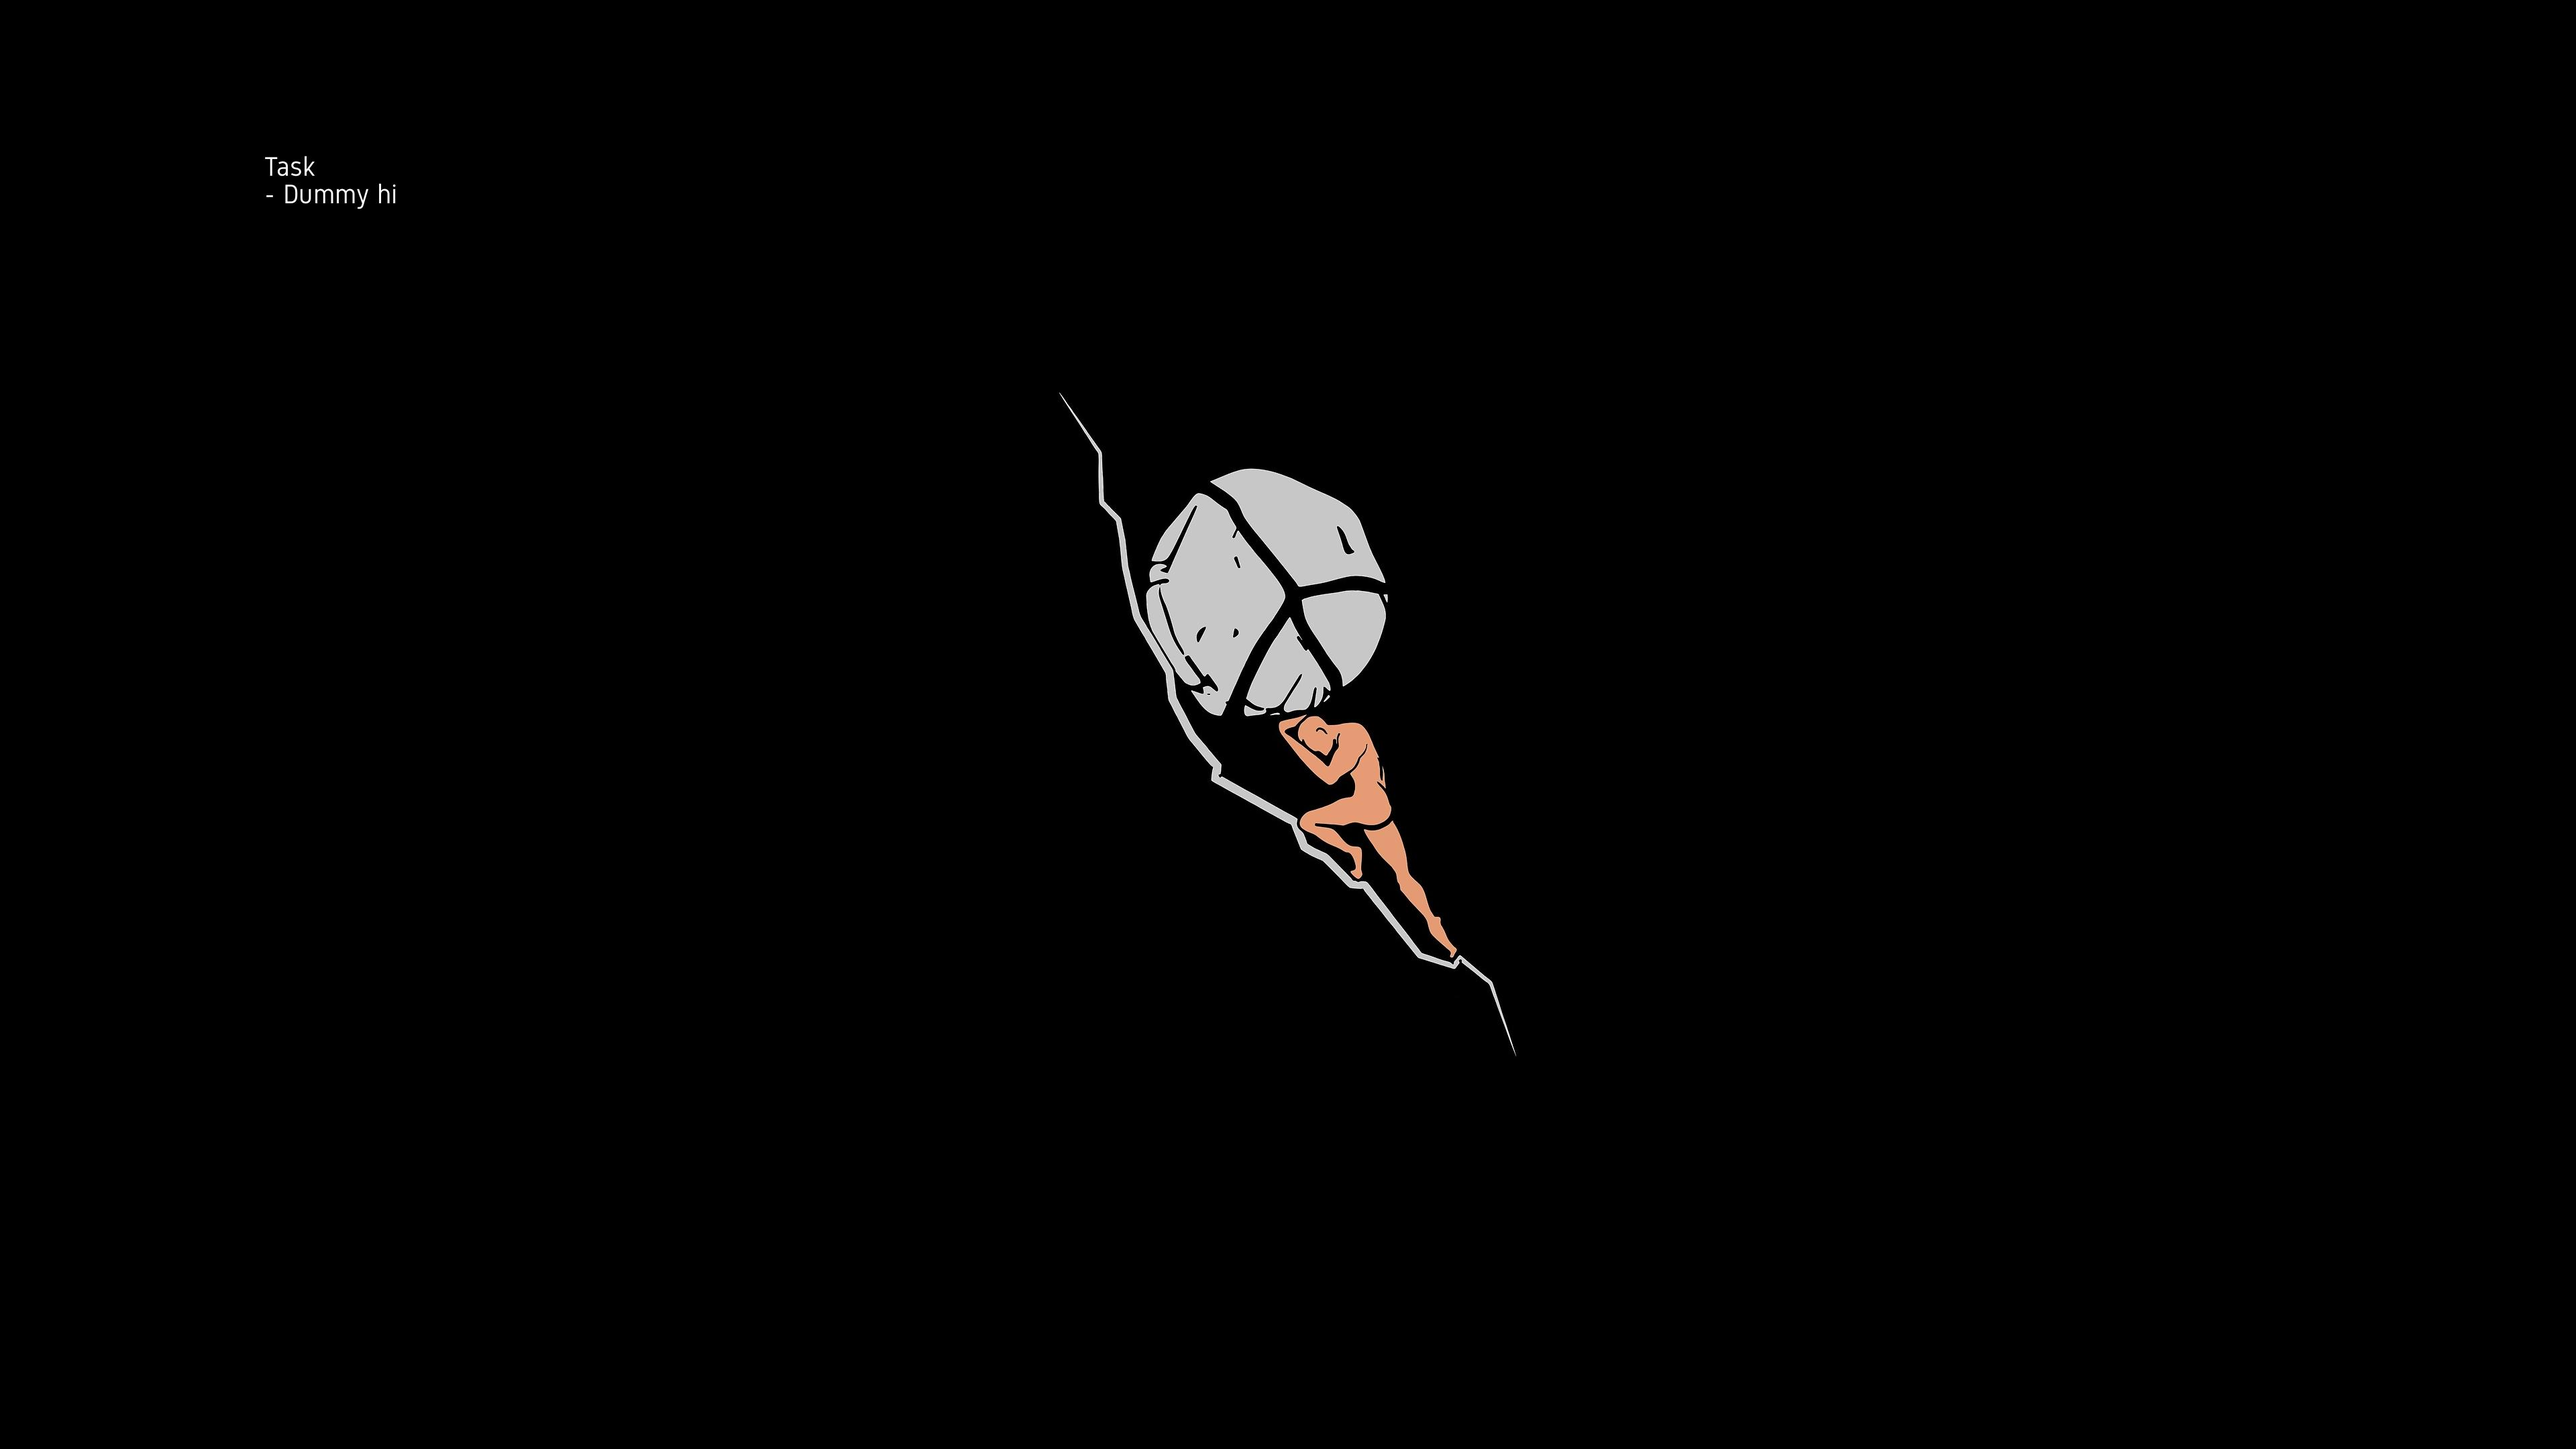
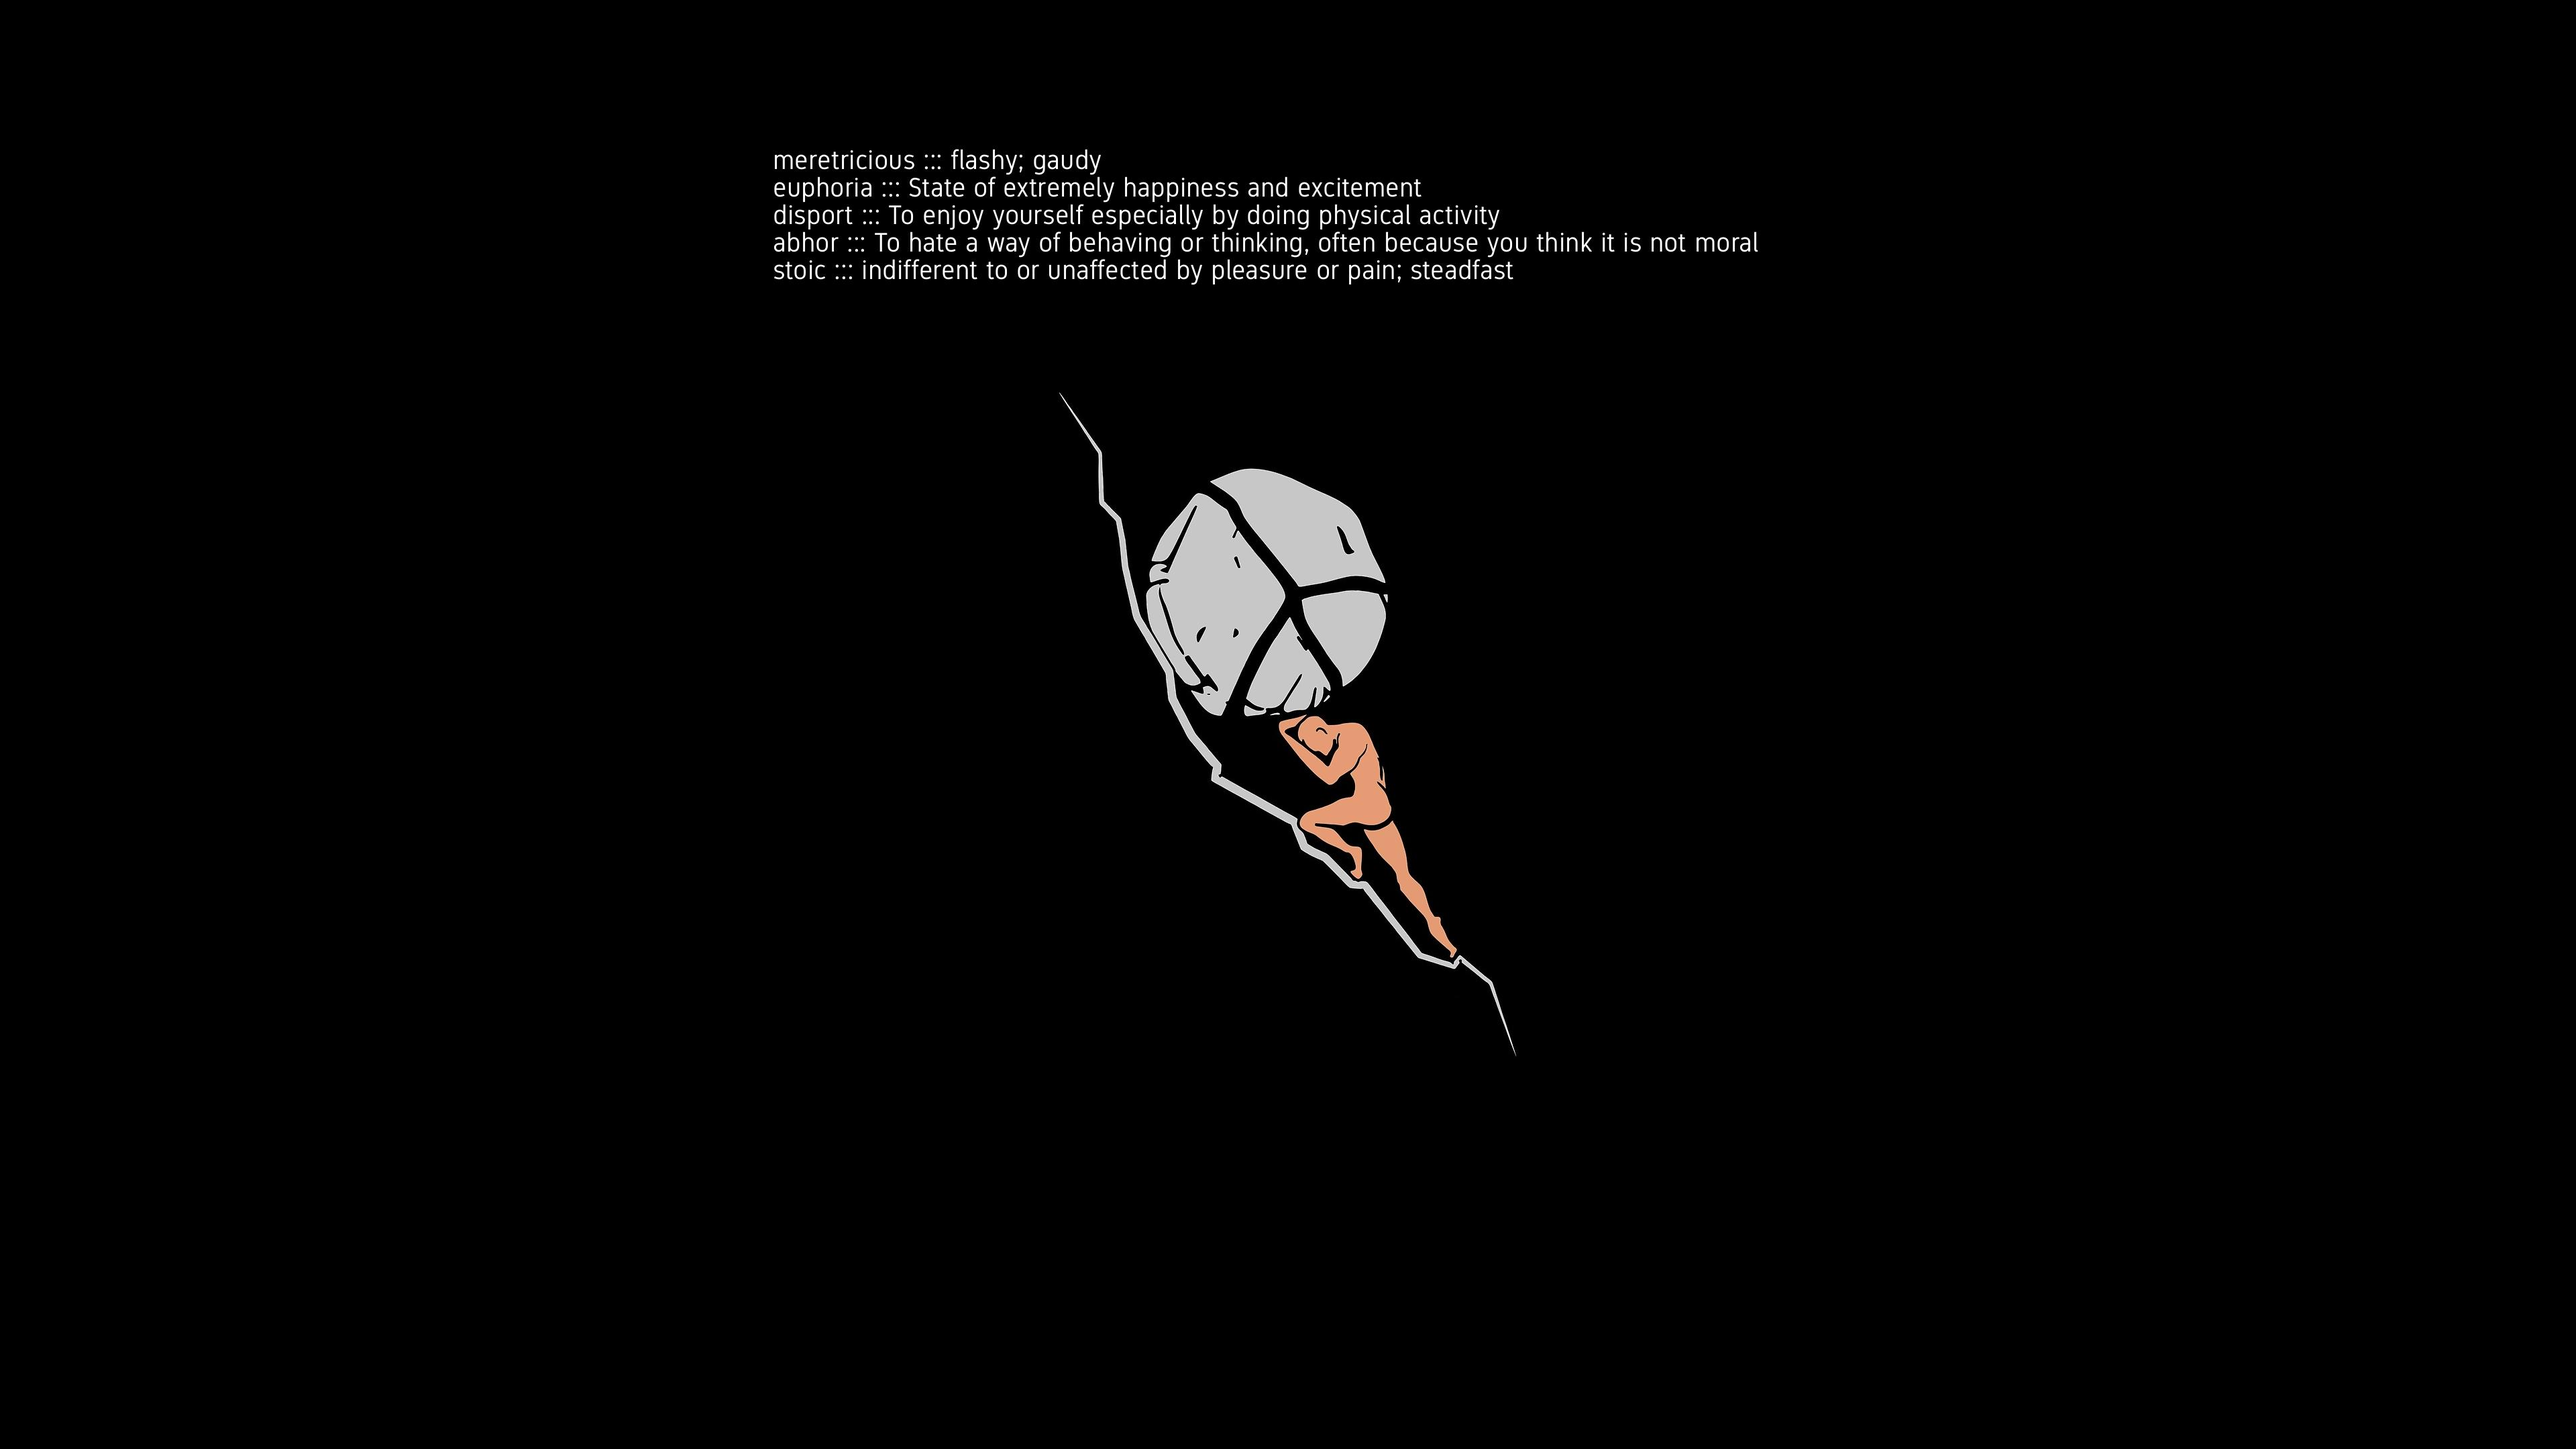
fix: start pos for the text

Changed region(s): [[0.2812, 0.0931, 0.6875, 0.1861], [0.125, 0.1241, 0.1562, 0.1551]]

diff --git a/main.py b/main.py
@@ -28,7 +28,7 @@ class WallpaperUpdater(FileSystemEventHandler):
         self.font_type = font_type
         self.font_size = font_size
         self.font_color = font_color
-        self.start_pos = (-100, -100)
+        self.start_pos = (0, 0)
         if dark_mode:
             self.command = (
                 f"gsettings set org.gnome.desktop.background picture-uri-dark"
@@ -49,7 +49,7 @@ class WallpaperUpdater(FileSystemEventHandler):
         )  # choose a font and font size
         text_size = draw.textbbox(self.start_pos, text=text, font=font)
         text_position = (
-            int((image_size[0] - text_size[0]) * 0.1),
+            int((image_size[0] - text_size[0]) * 0.3),
             int((image_size[1] - text_size[1]) * 0.1),
         )  # center the text
         # logger.info(text_size)
